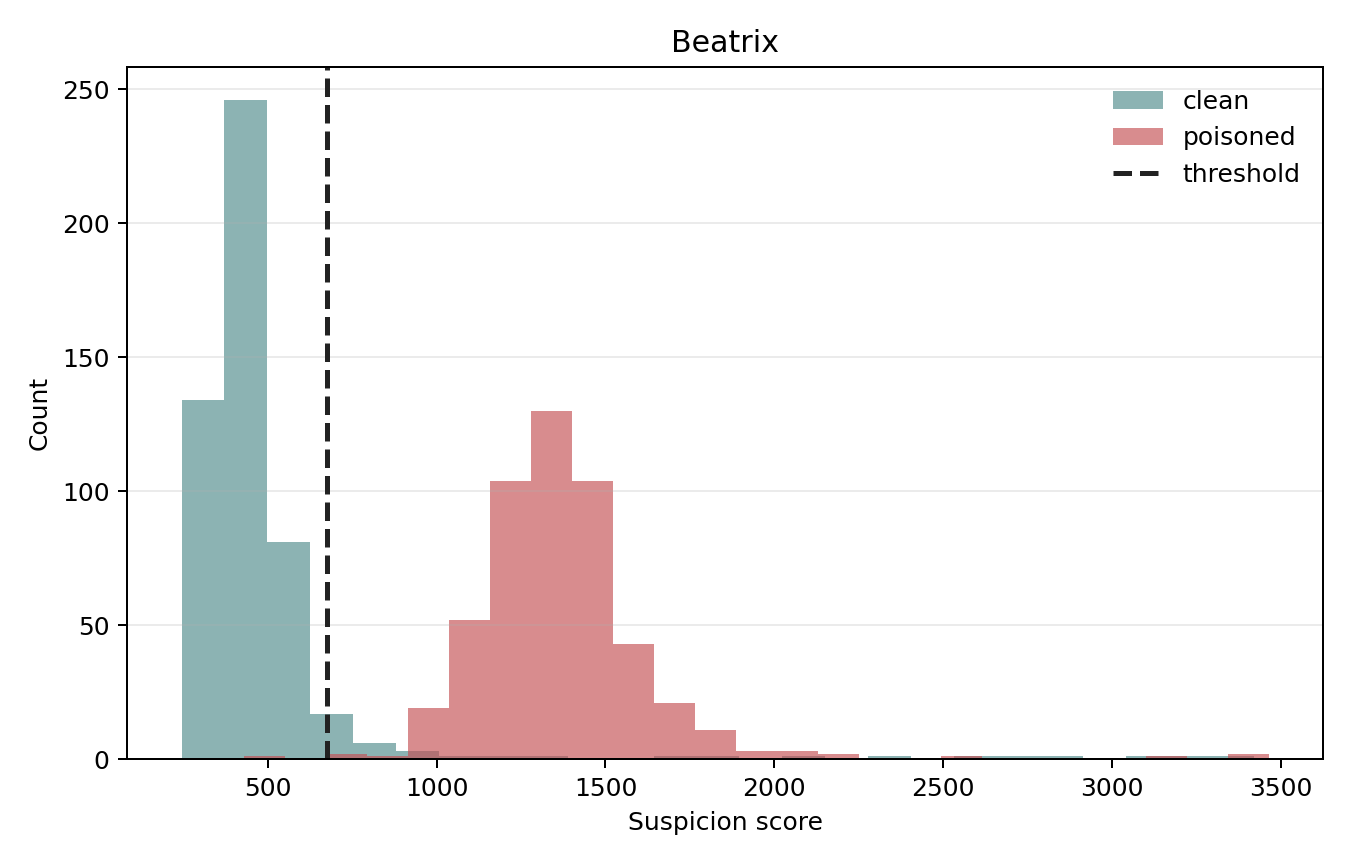
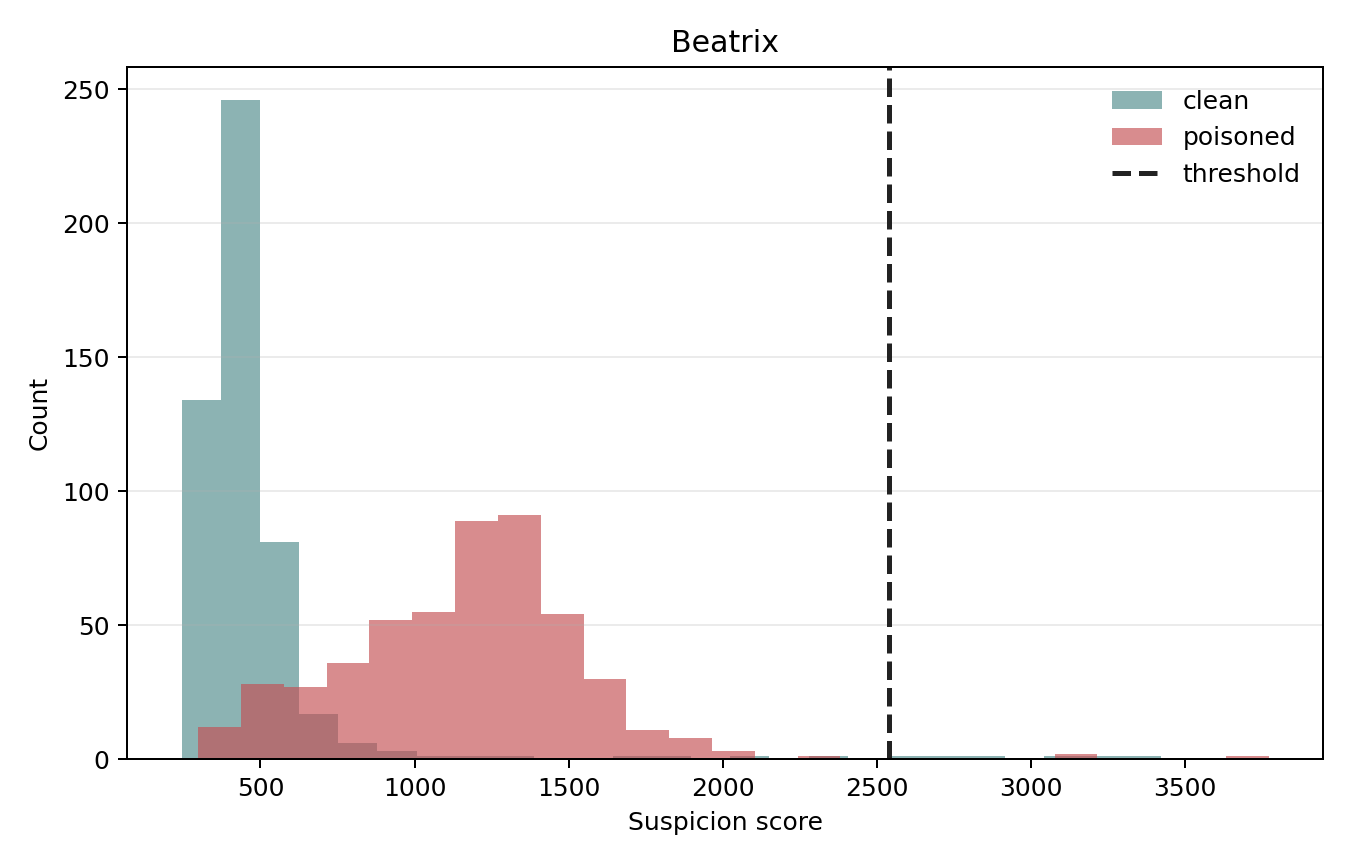
Images changed for minigpt4 backdoor specific defense

diff --git a/bare_jrnl_new_sample4.tex b/bare_jrnl_new_sample4.tex
@@ -844,7 +844,7 @@ We evaluate \textsc{FreqDoor} against \textbf{JPEG compression} and \textbf{Gaus
     \textbf{Model} &
     \textbf{Detector} &
     \textbf{TPR} $\downarrow$ &
-    \textbf{Actual FPR} &
+    \textbf{Target FPR} &
     \textbf{AUROC} $\rightarrow 0.5$ &
     \textbf{Threshold} \\
     \midrule
@@ -880,11 +880,11 @@ We evaluate \textsc{FreqDoor} against \textbf{JPEG compression} and \textbf{Gaus
     \midrule
     \multirow{3}{*}{MiniGPT-4}
     & Spectral Signatures
-    & 0.000 & 0.050 & 0.442 & 112.910 \\
+    & 0.020 & 0.050 & 0.546 & 114.889 \\
     & Beatrix
-    & 0.998 & 0.050 & 0.978 & 676.520 \\
+    & 0.006 & 0.050 & 0.945 & 2537.814 \\
     & STRIP
-    & 0.652 & 0.050 & 0.849 & 0.157 \\
+    & 0.040 & 0.050 & 0.771 & 0.826 \\
 
     \bottomrule
     \end{tabular}
